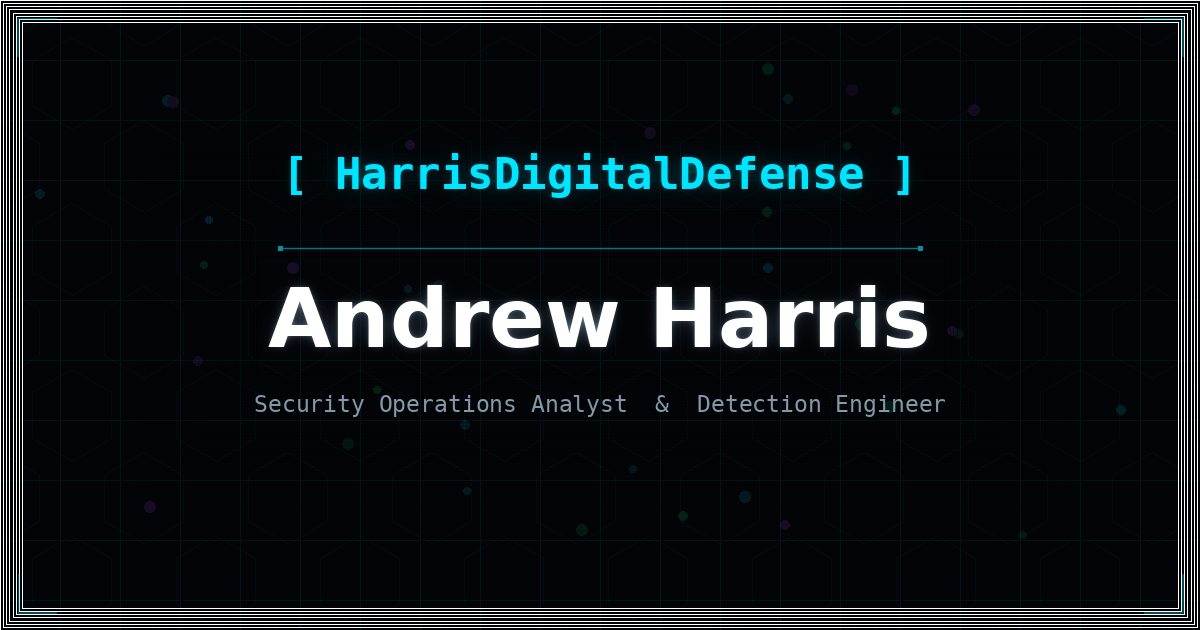
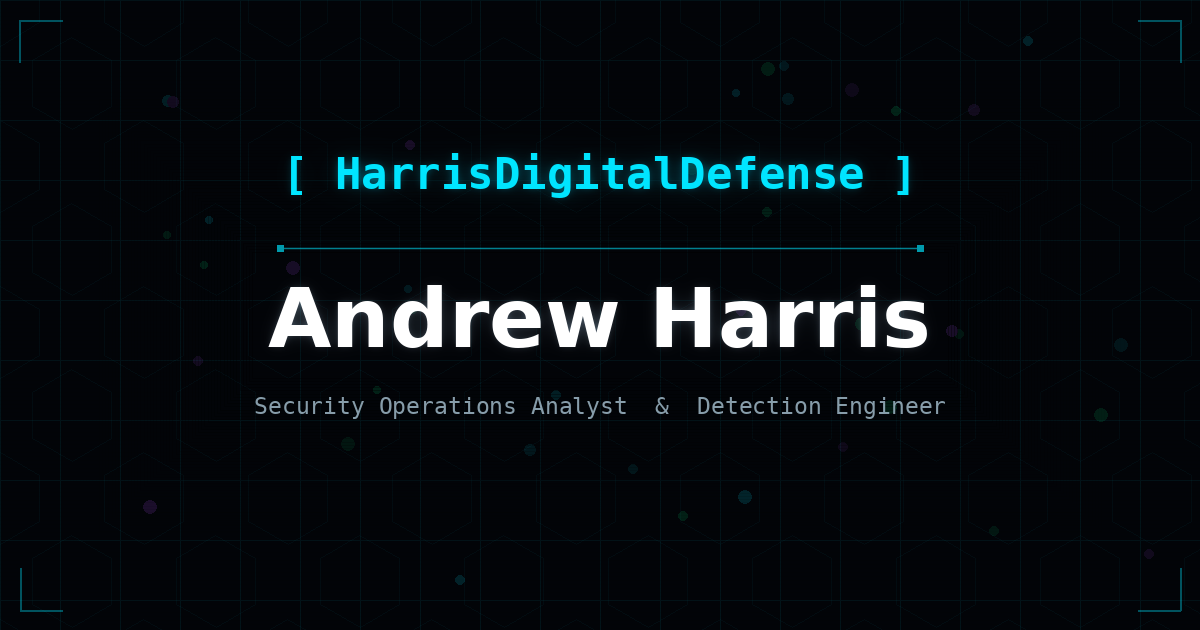
Update social meta tags to structured FB/Twitter format; refresh OG image
Meta tags now follow the standard three-section layout on every page:
  <!-- HTML Meta Tags -->   — title + description
  <!-- Facebook Meta Tags --> — og:url, og:type, og:title, og:description, og:image
  <!-- Twitter Meta Tags --> — twitter:card, twitter:domain, twitter:url,
                               twitter:title, twitter:description, twitter:image

Each page has its own canonical og:url and twitter:url.
preview-image.png regenerated at compress_level=1 (lossless, faster decode).

https://claude.ai/code/session_012w8UKEpVtfr2Fc5dczxubE

diff --git a/writeups.html b/writeups.html
@@ -3,18 +3,22 @@
 <head>
   <meta charset="UTF-8" />
   <meta name="viewport" content="width=device-width, initial-scale=1.0" />
+  <!-- HTML Meta Tags -->
   <title>Write-Ups — Andrew Harris</title>
-  <meta name="description" content="Cybersecurity investigation write-ups, case studies, and technical analyses by Andrew Harris — DFIR, malware analysis, threat hunting, and detection engineering." />
-  <!-- Open Graph / Social Preview -->
-  <meta property="og:type"         content="website" />
-  <meta property="og:url"          content="https://andrewjharrisportfolio.github.io/writeups.html" />
-  <meta property="og:title"        content="Write-Ups — Andrew Harris" />
-  <meta property="og:description"  content="Cybersecurity investigation write-ups, case studies, and technical analyses by Andrew Harris — DFIR, malware analysis, threat hunting, and detection engineering." />
-  <meta property="og:image"        content="https://andrewjharrisportfolio.github.io/preview-image.png" />
-  <meta property="og:image:width"  content="1200" />
-  <meta property="og:image:height" content="630" />
-  <meta name="twitter:card"        content="summary_large_image" />
-  <meta name="twitter:image"       content="https://andrewjharrisportfolio.github.io/preview-image.png" />
+  <meta name="description" content="Cybersecurity investigation write-ups, case studies, and technical analyses by Andrew Harris — DFIR, malware analysis, threat hunting, and detection engineering.">
+  <!-- Facebook Meta Tags -->
+  <meta property="og:url" content="https://andrewjharrisportfolio.github.io/writeups.html">
+  <meta property="og:type" content="website">
+  <meta property="og:title" content="Write-Ups — Andrew Harris">
+  <meta property="og:description" content="Cybersecurity investigation write-ups, case studies, and technical analyses by Andrew Harris — DFIR, malware analysis, threat hunting, and detection engineering.">
+  <meta property="og:image" content="https://andrewjharrisportfolio.github.io/preview-image.png">
+  <!-- Twitter Meta Tags -->
+  <meta name="twitter:card" content="summary_large_image">
+  <meta property="twitter:domain" content="andrewjharrisportfolio.github.io">
+  <meta property="twitter:url" content="https://andrewjharrisportfolio.github.io/writeups.html">
+  <meta name="twitter:title" content="Write-Ups — Andrew Harris">
+  <meta name="twitter:description" content="Cybersecurity investigation write-ups, case studies, and technical analyses by Andrew Harris — DFIR, malware analysis, threat hunting, and detection engineering.">
+  <meta name="twitter:image" content="https://andrewjharrisportfolio.github.io/preview-image.png">
   <link rel="stylesheet" href="styles.css" />
   <script>window.PAGE_ID = 'writeups';</script>
   <script src="site-data.js"></script>

diff --git a/training.html b/training.html
@@ -3,18 +3,22 @@
 <head>
   <meta charset="UTF-8" />
   <meta name="viewport" content="width=device-width, initial-scale=1.0" />
-  <title>Training & Labs — Andrew Harris</title>
-  <meta name="description" content="Hands-on cybersecurity training and lab experience — SANS courses, TryHackMe, Blue Team Labs Online, LetsDefend, and Azure security labs." />
-  <!-- Open Graph / Social Preview -->
-  <meta property="og:type"         content="website" />
-  <meta property="og:url"          content="https://andrewjharrisportfolio.github.io/training.html" />
-  <meta property="og:title"        content="Training &amp; Labs — Andrew Harris" />
-  <meta property="og:description"  content="Hands-on cybersecurity training and lab experience — SANS courses, TryHackMe, Blue Team Labs Online, LetsDefend, and Azure security labs." />
-  <meta property="og:image"        content="https://andrewjharrisportfolio.github.io/preview-image.png" />
-  <meta property="og:image:width"  content="1200" />
-  <meta property="og:image:height" content="630" />
-  <meta name="twitter:card"        content="summary_large_image" />
-  <meta name="twitter:image"       content="https://andrewjharrisportfolio.github.io/preview-image.png" />
+  <!-- HTML Meta Tags -->
+  <title>Training &amp; Labs — Andrew Harris</title>
+  <meta name="description" content="Hands-on cybersecurity training and lab experience — SANS courses, TryHackMe, Blue Team Labs Online, LetsDefend, and Azure security labs.">
+  <!-- Facebook Meta Tags -->
+  <meta property="og:url" content="https://andrewjharrisportfolio.github.io/training.html">
+  <meta property="og:type" content="website">
+  <meta property="og:title" content="Training &amp; Labs — Andrew Harris">
+  <meta property="og:description" content="Hands-on cybersecurity training and lab experience — SANS courses, TryHackMe, Blue Team Labs Online, LetsDefend, and Azure security labs.">
+  <meta property="og:image" content="https://andrewjharrisportfolio.github.io/preview-image.png">
+  <!-- Twitter Meta Tags -->
+  <meta name="twitter:card" content="summary_large_image">
+  <meta property="twitter:domain" content="andrewjharrisportfolio.github.io">
+  <meta property="twitter:url" content="https://andrewjharrisportfolio.github.io/training.html">
+  <meta name="twitter:title" content="Training &amp; Labs — Andrew Harris">
+  <meta name="twitter:description" content="Hands-on cybersecurity training and lab experience — SANS courses, TryHackMe, Blue Team Labs Online, LetsDefend, and Azure security labs.">
+  <meta name="twitter:image" content="https://andrewjharrisportfolio.github.io/preview-image.png">
   <link rel="stylesheet" href="styles.css" />
   <script>window.PAGE_ID = 'training';</script>
   <script src="site-data.js"></script>

diff --git a/index.html b/index.html
@@ -3,18 +3,22 @@
 <head>
   <meta charset="UTF-8" />
   <meta name="viewport" content="width=device-width, initial-scale=1.0" />
+  <!-- HTML Meta Tags -->
   <title>Andrew Harris — Cybersecurity Portfolio</title>
-  <meta name="description" content="Cybersecurity portfolio of Andrew Harris — SOC Analyst & Detection Engineer specializing in SIEM, threat detection, and incident response." />
-  <!-- Open Graph / Social Preview -->
-  <meta property="og:type"         content="website" />
-  <meta property="og:url"          content="https://andrewjharrisportfolio.github.io/" />
-  <meta property="og:title"        content="Andrew Harris — Cybersecurity Portfolio" />
-  <meta property="og:description"  content="Cybersecurity portfolio of Andrew Harris — SOC Analyst &amp; Detection Engineer specializing in SIEM, threat detection, and incident response." />
-  <meta property="og:image"        content="https://andrewjharrisportfolio.github.io/preview-image.png" />
-  <meta property="og:image:width"  content="1200" />
-  <meta property="og:image:height" content="630" />
-  <meta name="twitter:card"        content="summary_large_image" />
-  <meta name="twitter:image"       content="https://andrewjharrisportfolio.github.io/preview-image.png" />
+  <meta name="description" content="Cybersecurity portfolio of Andrew Harris — SOC Analyst & Detection Engineer specializing in SIEM, threat detection, and incident response.">
+  <!-- Facebook Meta Tags -->
+  <meta property="og:url" content="https://andrewjharrisportfolio.github.io/">
+  <meta property="og:type" content="website">
+  <meta property="og:title" content="Andrew Harris — Cybersecurity Portfolio">
+  <meta property="og:description" content="Cybersecurity portfolio of Andrew Harris — SOC Analyst & Detection Engineer specializing in SIEM, threat detection, and incident response.">
+  <meta property="og:image" content="https://andrewjharrisportfolio.github.io/preview-image.png">
+  <!-- Twitter Meta Tags -->
+  <meta name="twitter:card" content="summary_large_image">
+  <meta property="twitter:domain" content="andrewjharrisportfolio.github.io">
+  <meta property="twitter:url" content="https://andrewjharrisportfolio.github.io/">
+  <meta name="twitter:title" content="Andrew Harris — Cybersecurity Portfolio">
+  <meta name="twitter:description" content="Cybersecurity portfolio of Andrew Harris — SOC Analyst & Detection Engineer specializing in SIEM, threat detection, and incident response.">
+  <meta name="twitter:image" content="https://andrewjharrisportfolio.github.io/preview-image.png">
   <link rel="stylesheet" href="styles.css" />
   <!-- PAGE_ID tells main.js which page initializer to run -->
   <script>window.PAGE_ID = 'home';</script>

diff --git a/projects.html b/projects.html
@@ -3,18 +3,22 @@
 <head>
   <meta charset="UTF-8" />
   <meta name="viewport" content="width=device-width, initial-scale=1.0" />
+  <!-- HTML Meta Tags -->
   <title>Projects — Andrew Harris</title>
-  <meta name="description" content="Cybersecurity projects by Andrew Harris — SIEM detection rules, network forensics, threat hunting, incident response, and cloud security." />
-  <!-- Open Graph / Social Preview -->
-  <meta property="og:type"         content="website" />
-  <meta property="og:url"          content="https://andrewjharrisportfolio.github.io/projects.html" />
-  <meta property="og:title"        content="Projects — Andrew Harris" />
-  <meta property="og:description"  content="Cybersecurity projects by Andrew Harris — SIEM detection rules, network forensics, threat hunting, incident response, and cloud security." />
-  <meta property="og:image"        content="https://andrewjharrisportfolio.github.io/preview-image.png" />
-  <meta property="og:image:width"  content="1200" />
-  <meta property="og:image:height" content="630" />
-  <meta name="twitter:card"        content="summary_large_image" />
-  <meta name="twitter:image"       content="https://andrewjharrisportfolio.github.io/preview-image.png" />
+  <meta name="description" content="Cybersecurity projects by Andrew Harris — SIEM detection rules, network forensics, threat hunting, incident response, and cloud security.">
+  <!-- Facebook Meta Tags -->
+  <meta property="og:url" content="https://andrewjharrisportfolio.github.io/projects.html">
+  <meta property="og:type" content="website">
+  <meta property="og:title" content="Projects — Andrew Harris">
+  <meta property="og:description" content="Cybersecurity projects by Andrew Harris — SIEM detection rules, network forensics, threat hunting, incident response, and cloud security.">
+  <meta property="og:image" content="https://andrewjharrisportfolio.github.io/preview-image.png">
+  <!-- Twitter Meta Tags -->
+  <meta name="twitter:card" content="summary_large_image">
+  <meta property="twitter:domain" content="andrewjharrisportfolio.github.io">
+  <meta property="twitter:url" content="https://andrewjharrisportfolio.github.io/projects.html">
+  <meta name="twitter:title" content="Projects — Andrew Harris">
+  <meta name="twitter:description" content="Cybersecurity projects by Andrew Harris — SIEM detection rules, network forensics, threat hunting, incident response, and cloud security.">
+  <meta name="twitter:image" content="https://andrewjharrisportfolio.github.io/preview-image.png">
   <link rel="stylesheet" href="styles.css" />
   <script>window.PAGE_ID = 'projects';</script>
   <script src="site-data.js"></script>

diff --git a/contact.html b/contact.html
@@ -3,18 +3,22 @@
 <head>
   <meta charset="UTF-8" />
   <meta name="viewport" content="width=device-width, initial-scale=1.0" />
+  <!-- HTML Meta Tags -->
   <title>Contact — Andrew Harris</title>
-  <meta name="description" content="Get in touch with Andrew Harris — Security Operations Analyst & Detection Engineer open to SOC and Detection Engineering roles." />
-  <!-- Open Graph / Social Preview -->
-  <meta property="og:type"         content="website" />
-  <meta property="og:url"          content="https://andrewjharrisportfolio.github.io/contact.html" />
-  <meta property="og:title"        content="Contact — Andrew Harris" />
-  <meta property="og:description"  content="Get in touch with Andrew Harris — Security Operations Analyst &amp; Detection Engineer open to SOC and Detection Engineering roles." />
-  <meta property="og:image"        content="https://andrewjharrisportfolio.github.io/preview-image.png" />
-  <meta property="og:image:width"  content="1200" />
-  <meta property="og:image:height" content="630" />
-  <meta name="twitter:card"        content="summary_large_image" />
-  <meta name="twitter:image"       content="https://andrewjharrisportfolio.github.io/preview-image.png" />
+  <meta name="description" content="Get in touch with Andrew Harris — Security Operations Analyst & Detection Engineer open to SOC and Detection Engineering roles.">
+  <!-- Facebook Meta Tags -->
+  <meta property="og:url" content="https://andrewjharrisportfolio.github.io/contact.html">
+  <meta property="og:type" content="website">
+  <meta property="og:title" content="Contact — Andrew Harris">
+  <meta property="og:description" content="Get in touch with Andrew Harris — Security Operations Analyst & Detection Engineer open to SOC and Detection Engineering roles.">
+  <meta property="og:image" content="https://andrewjharrisportfolio.github.io/preview-image.png">
+  <!-- Twitter Meta Tags -->
+  <meta name="twitter:card" content="summary_large_image">
+  <meta property="twitter:domain" content="andrewjharrisportfolio.github.io">
+  <meta property="twitter:url" content="https://andrewjharrisportfolio.github.io/contact.html">
+  <meta name="twitter:title" content="Contact — Andrew Harris">
+  <meta name="twitter:description" content="Get in touch with Andrew Harris — Security Operations Analyst & Detection Engineer open to SOC and Detection Engineering roles.">
+  <meta name="twitter:image" content="https://andrewjharrisportfolio.github.io/preview-image.png">
   <link rel="stylesheet" href="styles.css" />
   <script>window.PAGE_ID = 'contact';</script>
   <script src="site-data.js"></script>

diff --git a/certifications.html b/certifications.html
@@ -3,18 +3,22 @@
 <head>
   <meta charset="UTF-8" />
   <meta name="viewport" content="width=device-width, initial-scale=1.0" />
+  <!-- HTML Meta Tags -->
   <title>Certifications — Andrew Harris</title>
-  <meta name="description" content="Verified cybersecurity certifications earned by Andrew Harris — GCIH, GSEC, GFACT, Security+, AZ-500, A+." />
-  <!-- Open Graph / Social Preview -->
-  <meta property="og:type"         content="website" />
-  <meta property="og:url"          content="https://andrewjharrisportfolio.github.io/certifications.html" />
-  <meta property="og:title"        content="Certifications — Andrew Harris" />
-  <meta property="og:description"  content="Verified cybersecurity certifications earned by Andrew Harris — GCIH, GSEC, GFACT, Security+, AZ-500, A+." />
-  <meta property="og:image"        content="https://andrewjharrisportfolio.github.io/preview-image.png" />
-  <meta property="og:image:width"  content="1200" />
-  <meta property="og:image:height" content="630" />
-  <meta name="twitter:card"        content="summary_large_image" />
-  <meta name="twitter:image"       content="https://andrewjharrisportfolio.github.io/preview-image.png" />
+  <meta name="description" content="Verified cybersecurity certifications earned by Andrew Harris — GCIH, GSEC, GFACT, Security+, AZ-500, A+.">
+  <!-- Facebook Meta Tags -->
+  <meta property="og:url" content="https://andrewjharrisportfolio.github.io/certifications.html">
+  <meta property="og:type" content="website">
+  <meta property="og:title" content="Certifications — Andrew Harris">
+  <meta property="og:description" content="Verified cybersecurity certifications earned by Andrew Harris — GCIH, GSEC, GFACT, Security+, AZ-500, A+.">
+  <meta property="og:image" content="https://andrewjharrisportfolio.github.io/preview-image.png">
+  <!-- Twitter Meta Tags -->
+  <meta name="twitter:card" content="summary_large_image">
+  <meta property="twitter:domain" content="andrewjharrisportfolio.github.io">
+  <meta property="twitter:url" content="https://andrewjharrisportfolio.github.io/certifications.html">
+  <meta name="twitter:title" content="Certifications — Andrew Harris">
+  <meta name="twitter:description" content="Verified cybersecurity certifications earned by Andrew Harris — GCIH, GSEC, GFACT, Security+, AZ-500, A+.">
+  <meta name="twitter:image" content="https://andrewjharrisportfolio.github.io/preview-image.png">
   <link rel="stylesheet" href="styles.css" />
   <script>window.PAGE_ID = 'certifications';</script>
   <script src="site-data.js"></script>
